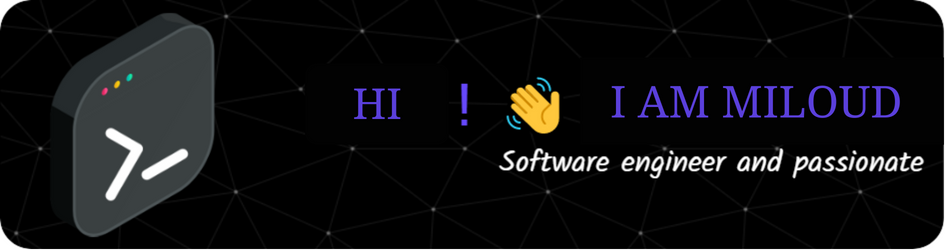
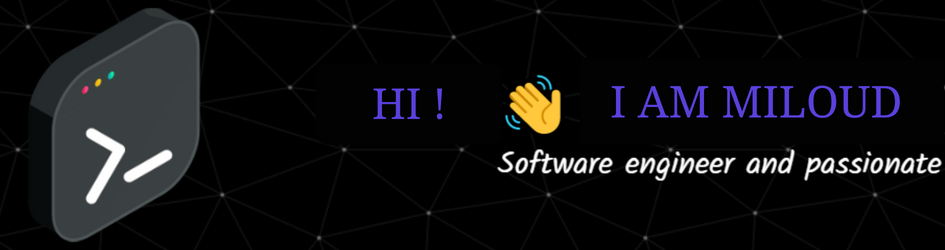
adding changes

diff --git a/README.md b/README.md
@@ -1,4 +1,4 @@
-<img align="center" width="100%" src="./Miloud(1).png" alt="miloud2000" />
+<img align="center" width="100%" src="./cover.png" alt="miloud2000" />
 <img align="right" src="https://komarev.com/ghpvc/?username=miloud2000&label=Profile%20views&color=blueviolet&style=flat-plastic" alt="miloud2000" />
 
 
